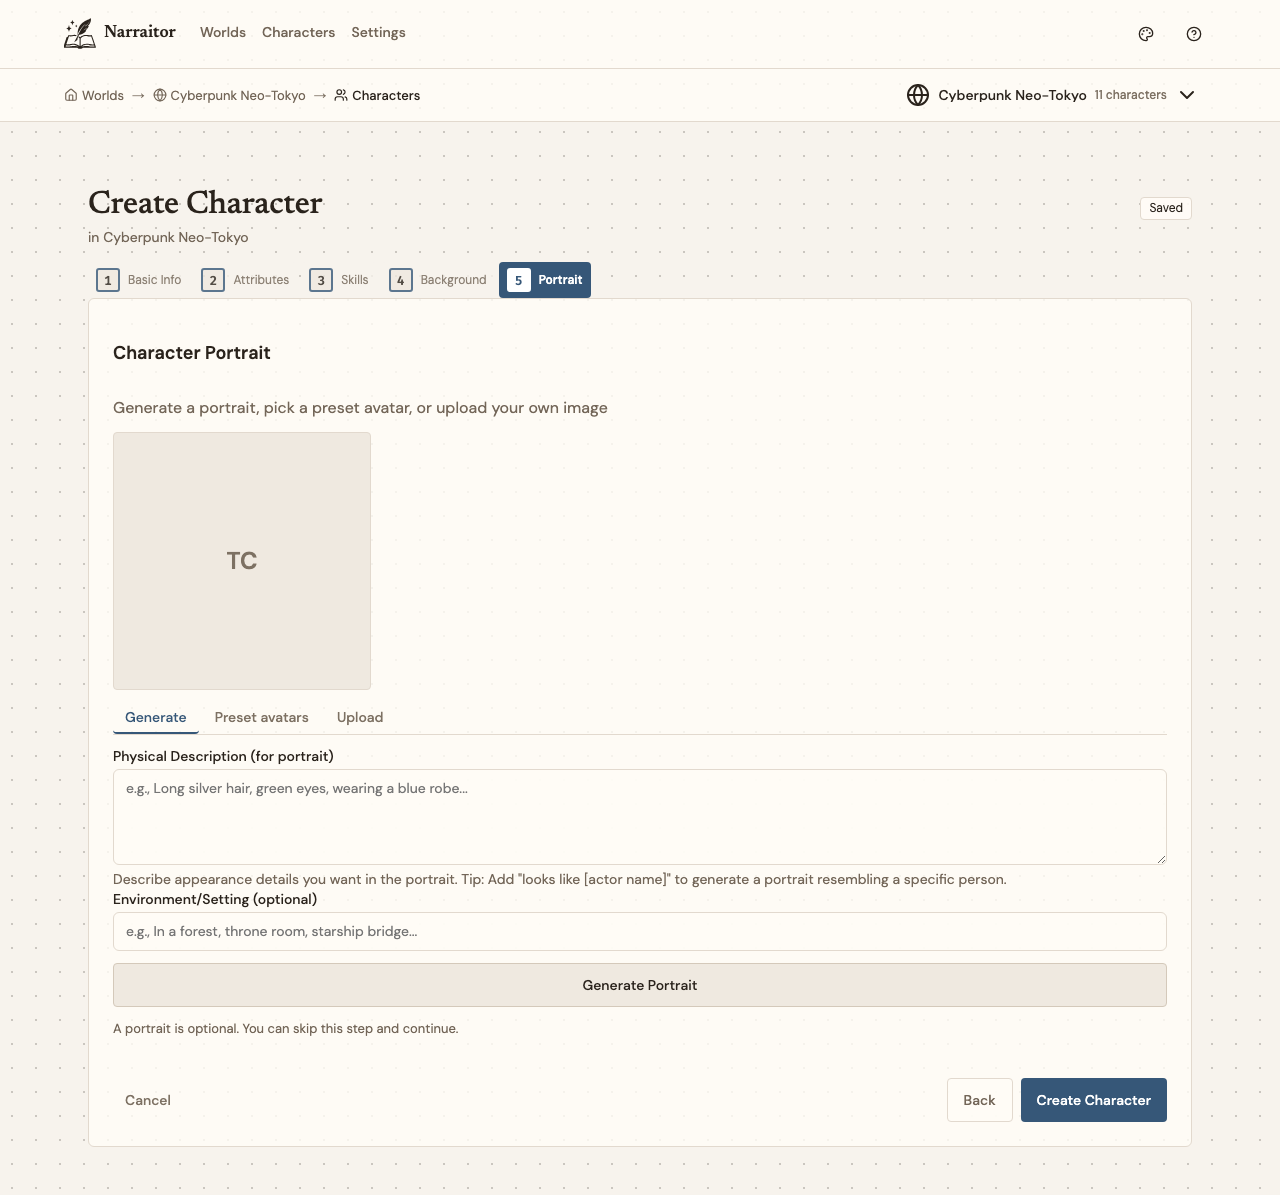
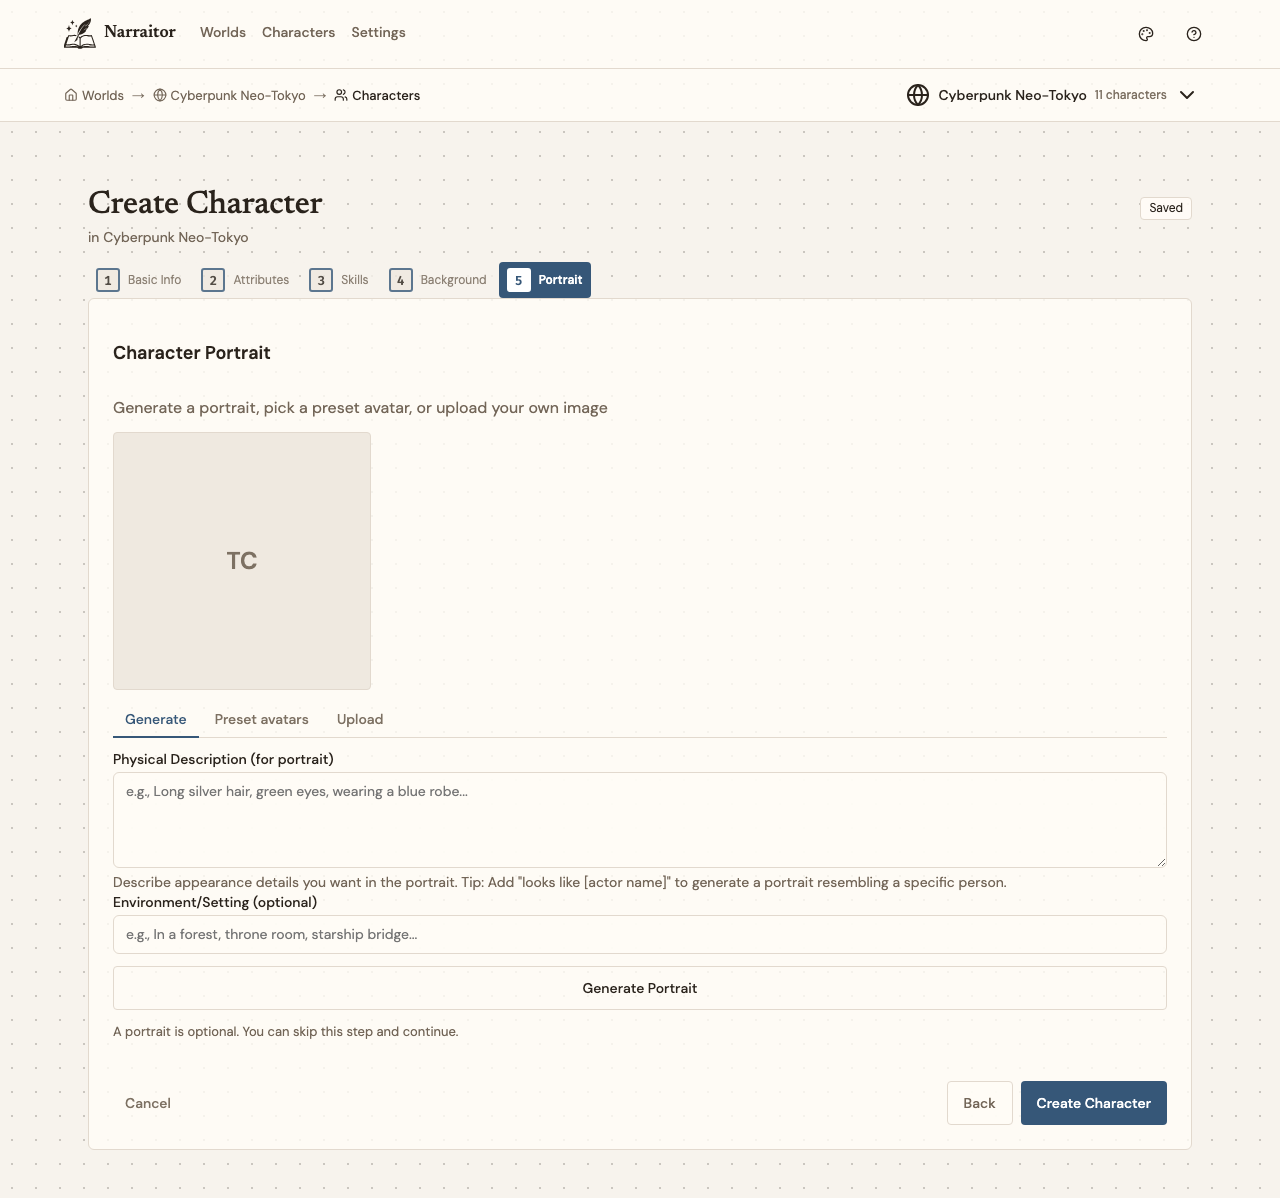
fix(ui): align tabs active indicator flush with container baseline

diff --git a/src/components/ui/tabs.css b/src/components/ui/tabs.css
@@ -25,9 +25,12 @@
 
 .tabs-trigger {
   appearance: none;
+  position: relative;
   padding: var(--space-2) var(--space-3);
   border: none;
+  border-radius: 0;
   border-bottom: 2px solid transparent;
+  margin-bottom: -1px;
   background: transparent;
   font-family: var(--font-interface);
   font-size: var(--font-size-sm);
@@ -44,6 +47,7 @@
 .tabs-trigger-active {
   color: var(--color-accent);
   border-bottom-color: var(--color-accent);
+  z-index: 1;
 }
 
 .tabs-content {

diff --git a/src/app/wizard.css b/src/app/wizard.css
@@ -1739,7 +1739,7 @@
   border-radius: var(--radius-sm);
 }
 
-:root .wizard-page .component-portrait-step button {
+:root .wizard-page .component-portrait-step button:not(.tabs-trigger) {
   border-radius: var(--radius-sm);
   padding: var(--space-1_5) var(--space-3);
 }
